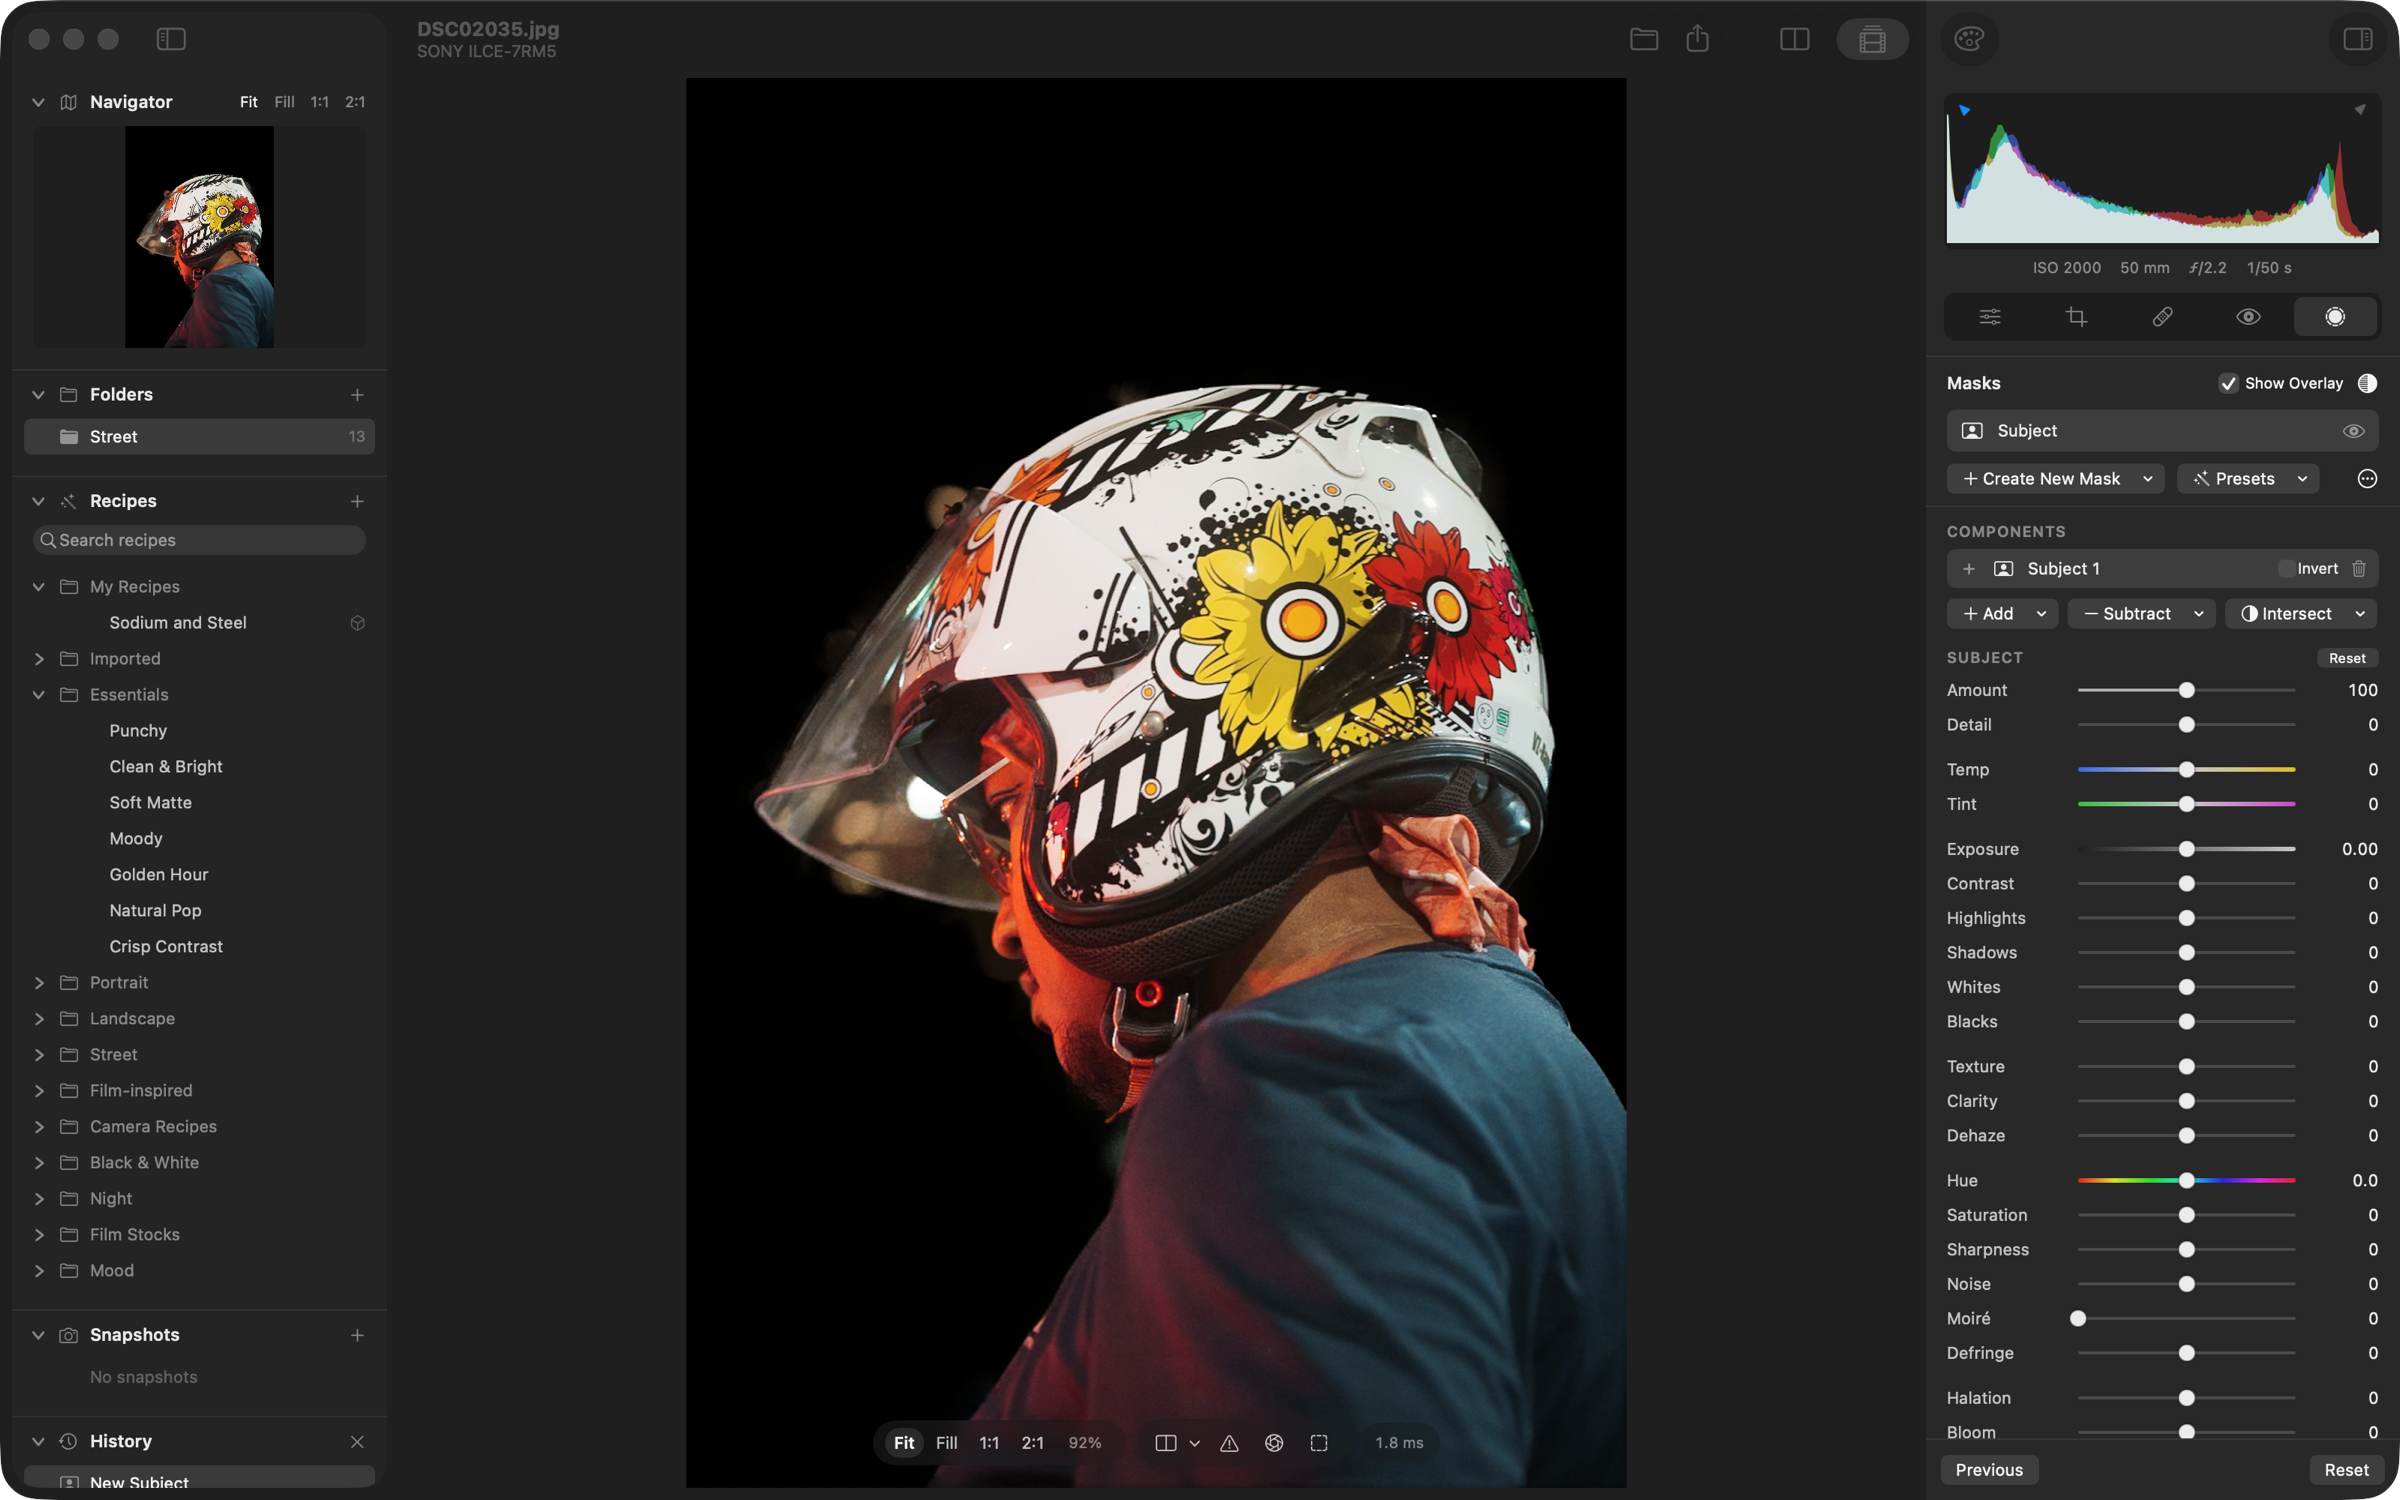
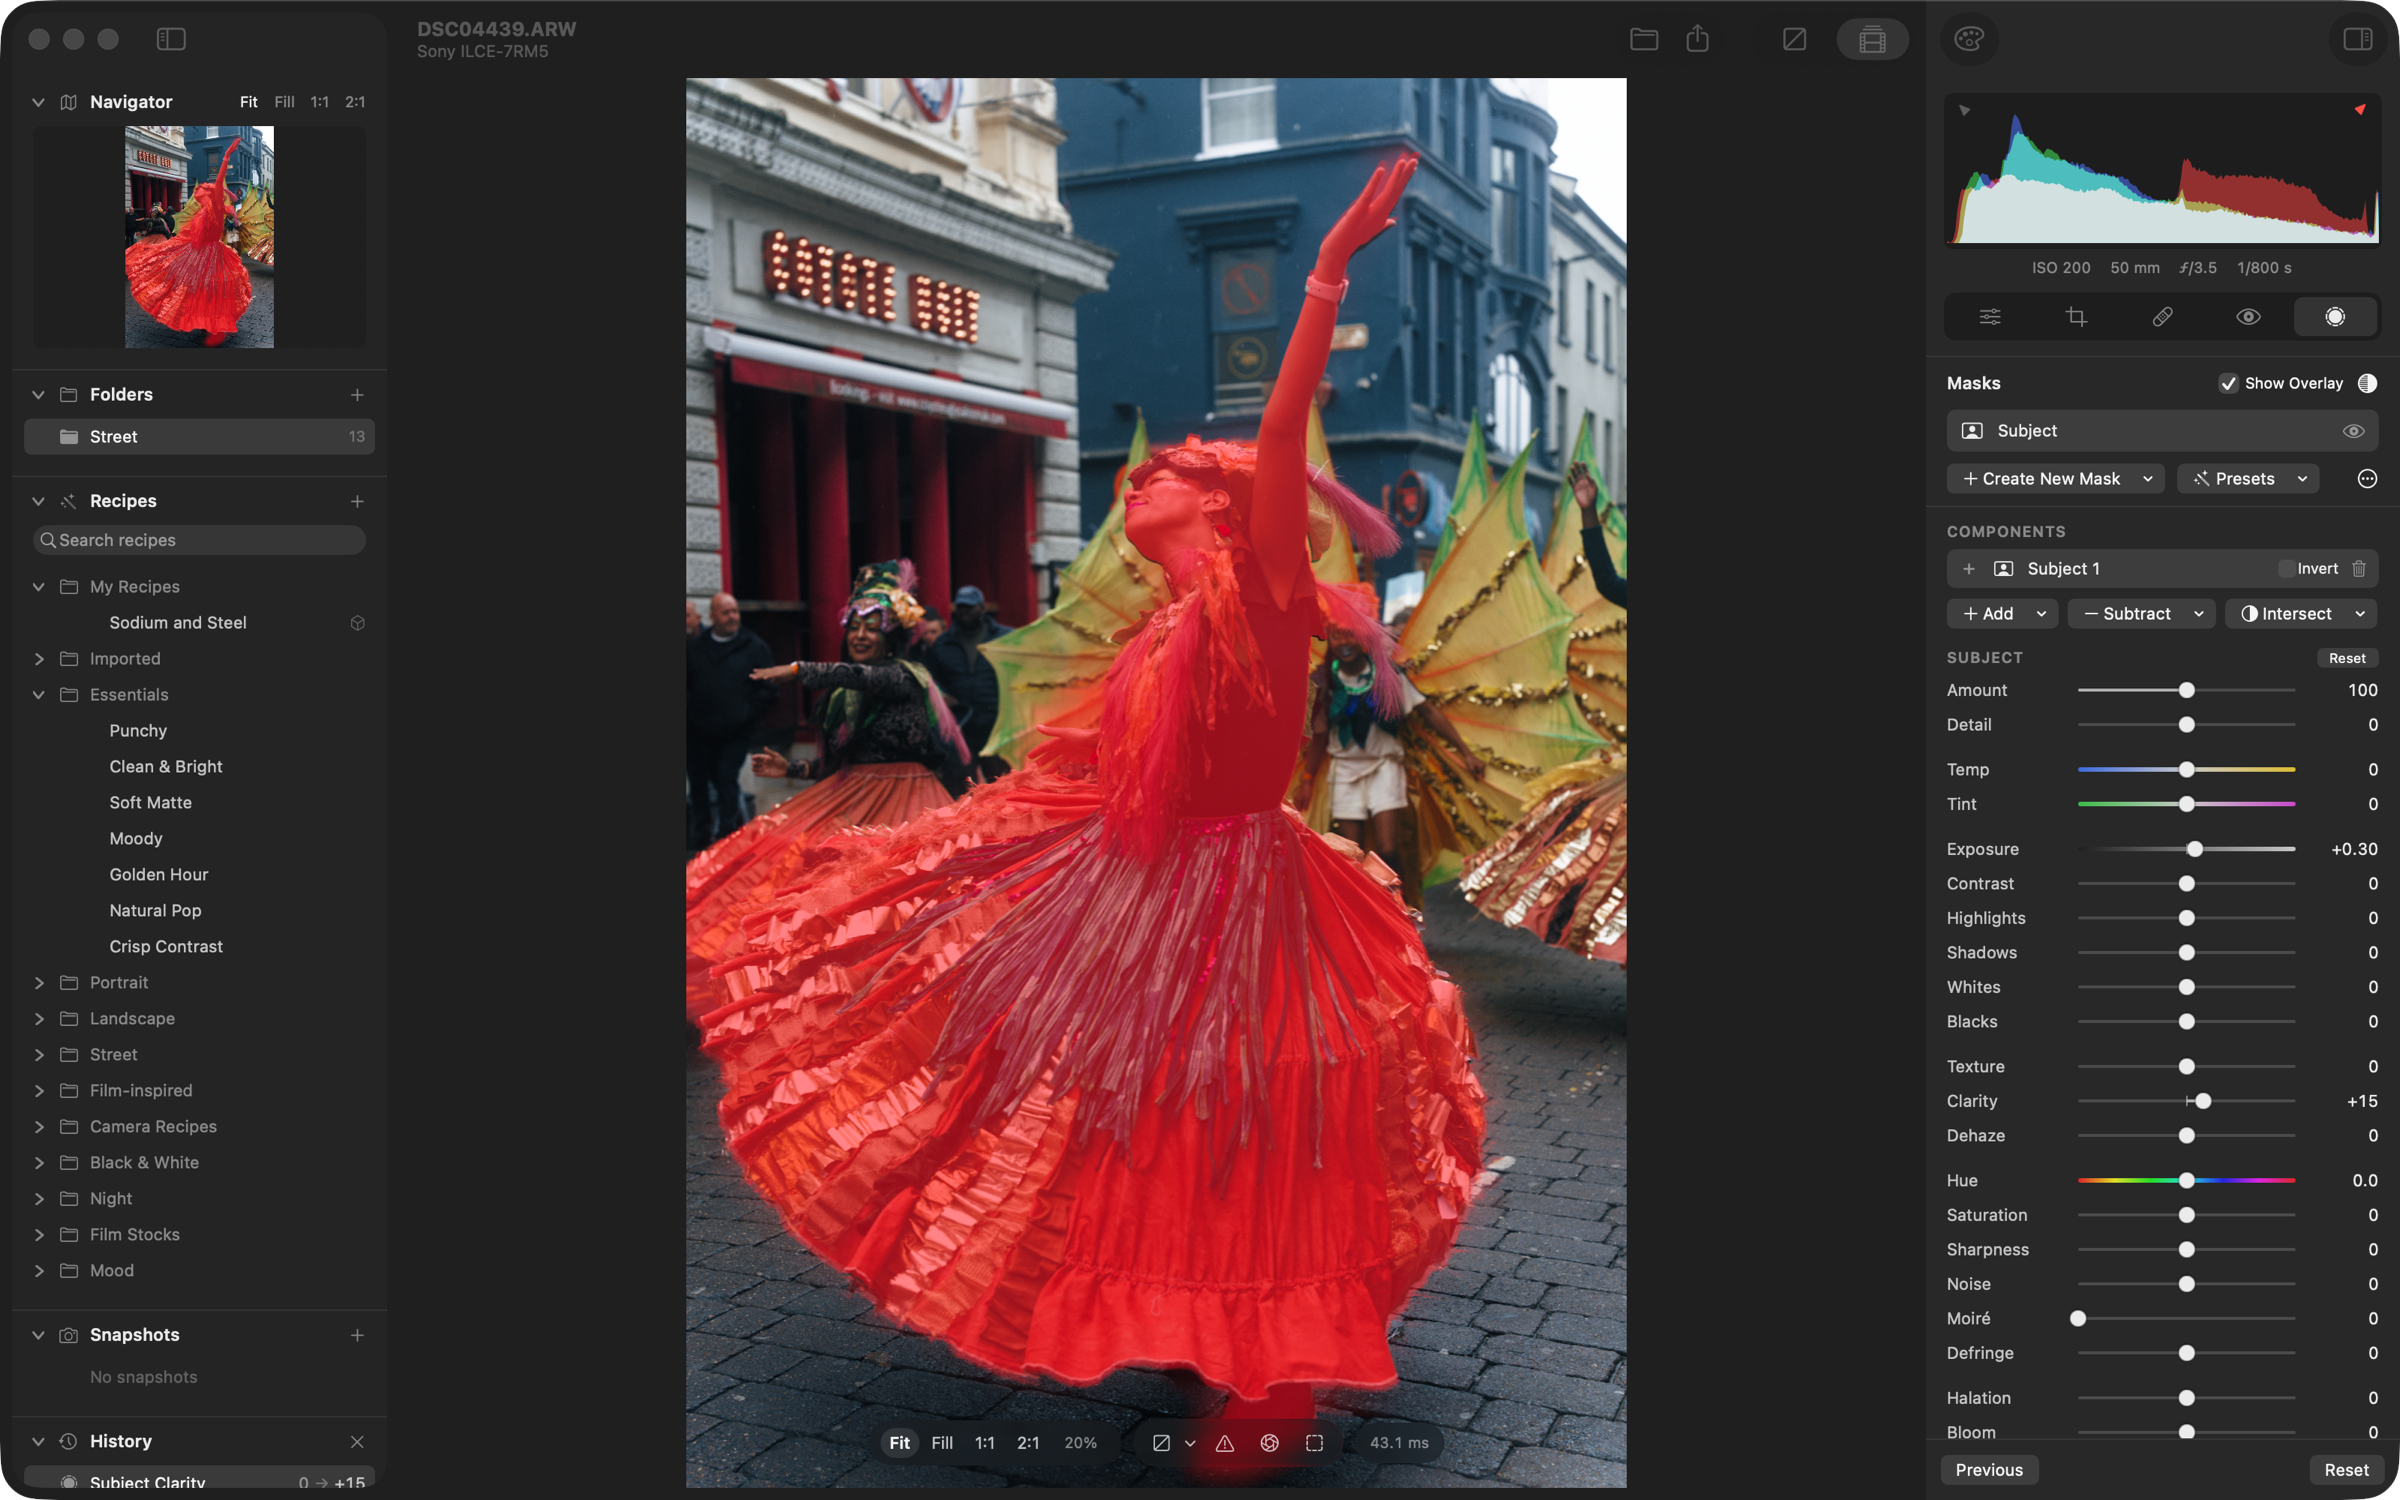
Hero shots: the Masks shot shows a Subject mask on the dancer in the red overlay, with its own Exposure and Clarity

diff --git a/web/content/features.ts b/web/content/features.ts
@@ -60,8 +60,8 @@ export const heroShots: HeroShot[] = [
   hero(
     "hero-masks.png",
     "Masks",
-    "A Subject mask on a photo of a motorcyclist in a flowered helmet, shown on black, with the Masks panel and its components on the right",
-    "A Subject mask, made on the device by Apple Vision and shown on black.",
+    "The dancer selected by a Subject mask, shown in the red mask overlay, with the mask's Exposure and Clarity raised in the Masks panel on the right",
+    "A Subject mask in the red overlay, made on the device by Apple Vision, with its own Exposure and Clarity.",
   ),
   hero(
     "hero-film.png",

diff --git a/README.md b/README.md
@@ -759,9 +759,9 @@ Kodak, Portra, Ektar, Gold, Vision3, Tri-X, Fujifilm, Superia, Provia, Velvia, I
 
 ![The slider bar for Exposure at +0.85 over the photo, with Tint and Contrast beside it and its keys in a hint bar](docs/images/hero-slider.png)
 
-**A Subject mask, shown on black.** Made on the device by Apple Vision, with nothing to download. The Masks panel lists the mask's components, which combine by add, subtract and intersect.
+**A Subject mask in the red overlay.** Made on the device by Apple Vision, with nothing to download, and given its own Exposure and Clarity. The Masks panel lists the mask's components, which combine by add, subtract and intersect.
 
-![A Subject mask on a photo of a motorcyclist in a flowered helmet, shown on black, with the Masks panel on the right](docs/images/hero-masks.png)
+![The dancer selected by a Subject mask, shown in the red mask overlay, with the mask's Exposure and Clarity raised in the Masks panel on the right](docs/images/hero-masks.png)
 
 **Masking on a Sony A7 III ARW.** A linear gradient darkens and cools the sky, and a feathered radial gradient warms and lifts the trees. The red overlay shows the selected mask's coverage.
 
